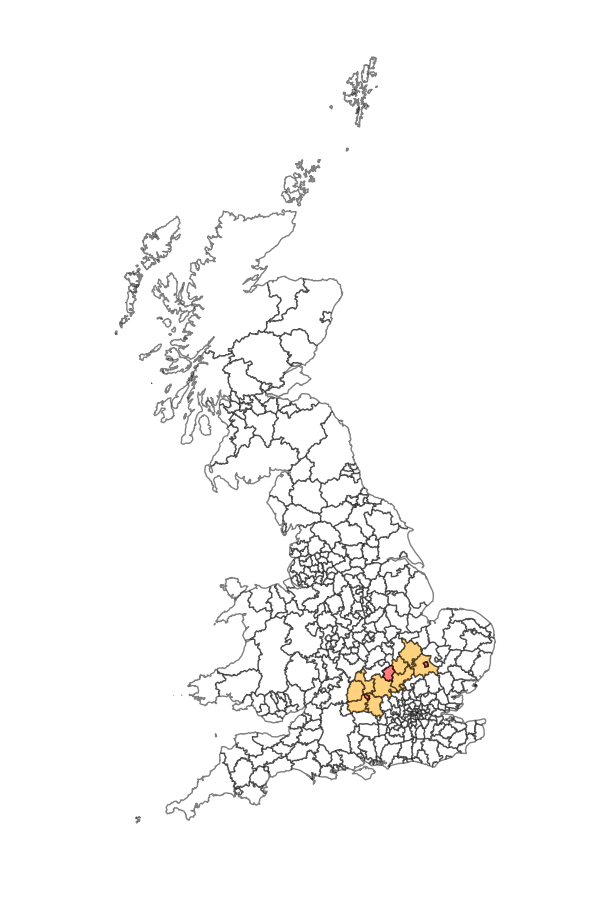
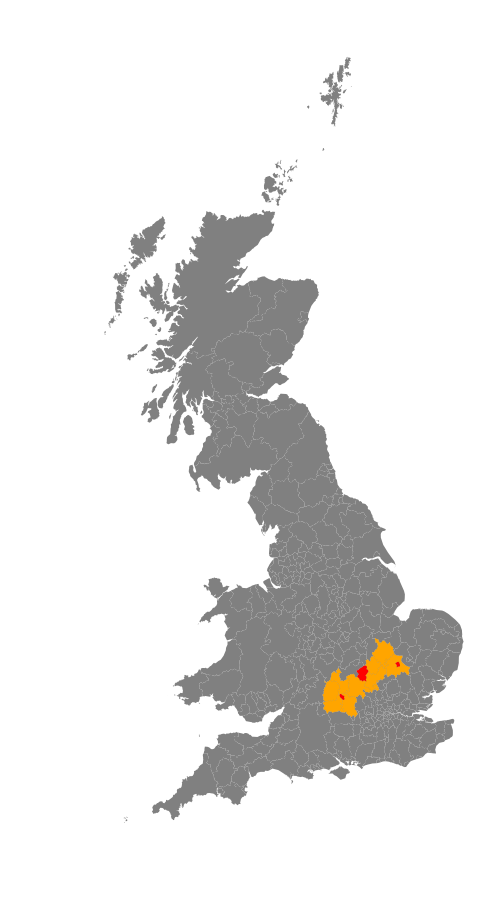
more visual stuff

Changed region(s): [[0.18, 0.1556, 0.93, 0.9333], [0.57, 0.0622, 0.72, 0.1556]]

diff --git a/scripts/visuals.py b/scripts/visuals.py
@@ -19,15 +19,17 @@ import geopandas
 import matplotlib.pyplot as plt
 import contextily as ctx
 from simim.utils import get_shapefile, get_config
-
+import simim.visuals as visuals
 #from scipy.spatial.distance import squareform, pdist
 
 def main(params):
 
   scale = "gb"
 
-  figsize=(9, 9) if scale != "gb" else (6,9)
-  fig, ax = plt.subplots(nrows=1, ncols=1, figsize=figsize, sharex=False, sharey=False)
+  v = visuals.Visual(1,1, panel_y=9 if scale=="gb" else 5)
+
+  # figsize=(9, 9) if scale != "gb" else (6,9)
+  # fig, ax = plt.subplots(nrows=1, ncols=1, figsize=figsize, sharex=False, sharey=False)
 
   ctrlads = ["E07000178", "E06000042", "E07000008"]
   arclads = ["E07000181", "E07000180", "E07000177", "E07000179", "E07000004", "E06000032", "E06000055", "E06000056", "E07000011", "E07000012"]
@@ -36,30 +38,34 @@ def main(params):
   url = "https://opendata.arcgis.com/datasets/686603e943f948acaa13fb5d2b0f1275_4.zip?outSR=%7B%22wkid%22%3A27700%2C%22latestWkid%22%3A27700%7D"
   gdf = get_shapefile(url, params["cache_dir"])
 
-  print(gdf.columns.values)
-  print(gdf[gdf.lad16cd.isin(arclads)][["lad16nm", "lad16cd", "bng_e", "bng_n"]])
-  ax.axis("off")
-  fig.patch.set_visible(False)
-  ax.patch.set_visible(False)
   # england
   if scale == "e":
-    ax.set_xlim([120000, 670000])
-    ax.set_ylim([ 00000, 550000])
+    xlim = [120000, 670000]
+    ylim = [ 00000, 550000]
   # closeup
   elif scale == "closeup":
-    ax.set_xlim([380000, 600000])
-    ax.set_ylim([130000, 350000])
+    xlim =[380000, 600000]
+    ylim = [130000, 350000]
+  else:
+    # fit all the polygons
+    xlim=None
+    ylim=None
+
+  v.polygons((0), gdf, xlim, ylim, fill_colour="grey")
+  v.polygons((0), gdf[gdf.lad16cd.isin(arclads)], xlim, ylim, fill_colour="orange")
+  v.polygons((0), gdf[gdf.lad16cd.isin(ctrlads)], xlim, ylim, fill_colour="red")
   # LAD centroids
   #ax.plot(gdf.bng_e, gdf.bng_n, "go")
   #for item in [fig, ax]:
   #  item.patch.set_visible(False)
 
-  gdf[~gdf.lad16cd.isin(arclads)].plot(alpha=0.5, edgecolor='k', color='w', ax=ax)
-  gdf[gdf.lad16cd.isin(arclads)].plot(alpha=0.5, edgecolor='k', color='orange', ax=ax)
-  gdf[gdf.lad16cd.isin(ctrlads)].plot(alpha=0.5, edgecolor='k', color='r', ax=ax)
-  plt.tight_layout()
-  plt.show()
-  #fig.savefig(os.path.join("doc/img", scale + ".png"))
+  # gdf[~gdf.lad16cd.isin(arclads)].plot(alpha=0.5, edgecolor='k', color='w', ax=ax)
+  # gdf[gdf.lad16cd.isin(arclads)].plot(alpha=0.5, edgecolor='k', color='orange', ax=ax)
+  # gdf[gdf.lad16cd.isin(ctrlads)].plot(alpha=0.5, edgecolor='k', color='r', ax=ax)
+  # plt.tight_layout()
+  # plt.show()
+  v.show()
+  v.to_png(os.path.join("doc/img", scale + ".png"))
 
 if __name__ == "__main__":
   main(get_config())

diff --git a/simim/visuals.py b/simim/visuals.py
@@ -6,12 +6,15 @@ import matplotlib.pyplot as plt
 # https://matplotlib.org/examples/color/colormaps_reference.html
 
 class Visual:
-  def __init__(self, rows, cols):
+  def __init__(self, rows, cols, panel_x=5, panel_y=5):
     self.rows = rows
     self.cols = cols
-    self.fig, self.axes = plt.subplots(nrows=rows, ncols=cols, figsize=(cols*5, rows*5), sharex=False, sharey=False)
+    self.fig, self.axes = plt.subplots(nrows=rows, ncols=cols, figsize=(cols*panel_x, rows*panel_y), sharex=False, sharey=False)
 
   def panel(self, index):
+    # deal with non-array case
+    if self.rows == 1 and self.cols == 1:
+      return self.axes
     return self.axes[index]
 
   def scatter(self, panel, x, y, marker="k.", title=None, **kwargs):
@@ -28,13 +31,16 @@ class Visual:
     ax.xaxis.set_visible(False)
     ax.yaxis.set_visible(False)
 
-  def polygons(self, panel, gdf, xlim, ylim, edge_colour, fill_colour):
-    ax = self.axes[panel]
+  def polygons(self, panel, gdf, xlim, ylim, fill_colour):
+    #ax = self.axes[panel]
+    ax = self.panel(panel)
     ax.axis("off")
-    ax.set_xlim(xlim)
-    ax.set_ylim(ylim)
+    if xlim:
+      ax.set_xlim(xlim)
+    if ylim:
+      ax.set_ylim(ylim)
 
-    plot_polygon_collection(ax, gdf['geometry'], edgecolor="white", facecolor=fill_colour, linewidth=0)
+    plot_polygon_collection(ax, gdf['geometry'], facecolor=fill_colour, linewidth=0)
     #gdf.plot(alpha=0.5, edgecolor='k', color=gdf.fill_colour, ax=ax)
 
   def show(self):

diff --git a/README.md b/README.md
@@ -19,7 +19,8 @@ Note that although all the base models are constrained to the total number of mi
 The primary case study for this work will be the proposed east-west arc [[1]](#references) (a.k.a. Cambridge-Milton Keynes-Oxford corridor).
 
 ![East-west arc in the context of GB](doc/img/gb.png)
-_Figure 2. East-west arc in context of GB. LADs included subject to change._
+
+_Figure 2. East-west arc in context of GB. Cambridge, Milton Keynes and Oxford in red. LADs included in the arc are subject to change._
 
 # References
 [1] National Infrastructure Commission, 2017, [Growth Arc – Completed Study](https://www.nic.org.uk/our-work/growth-arc/)
